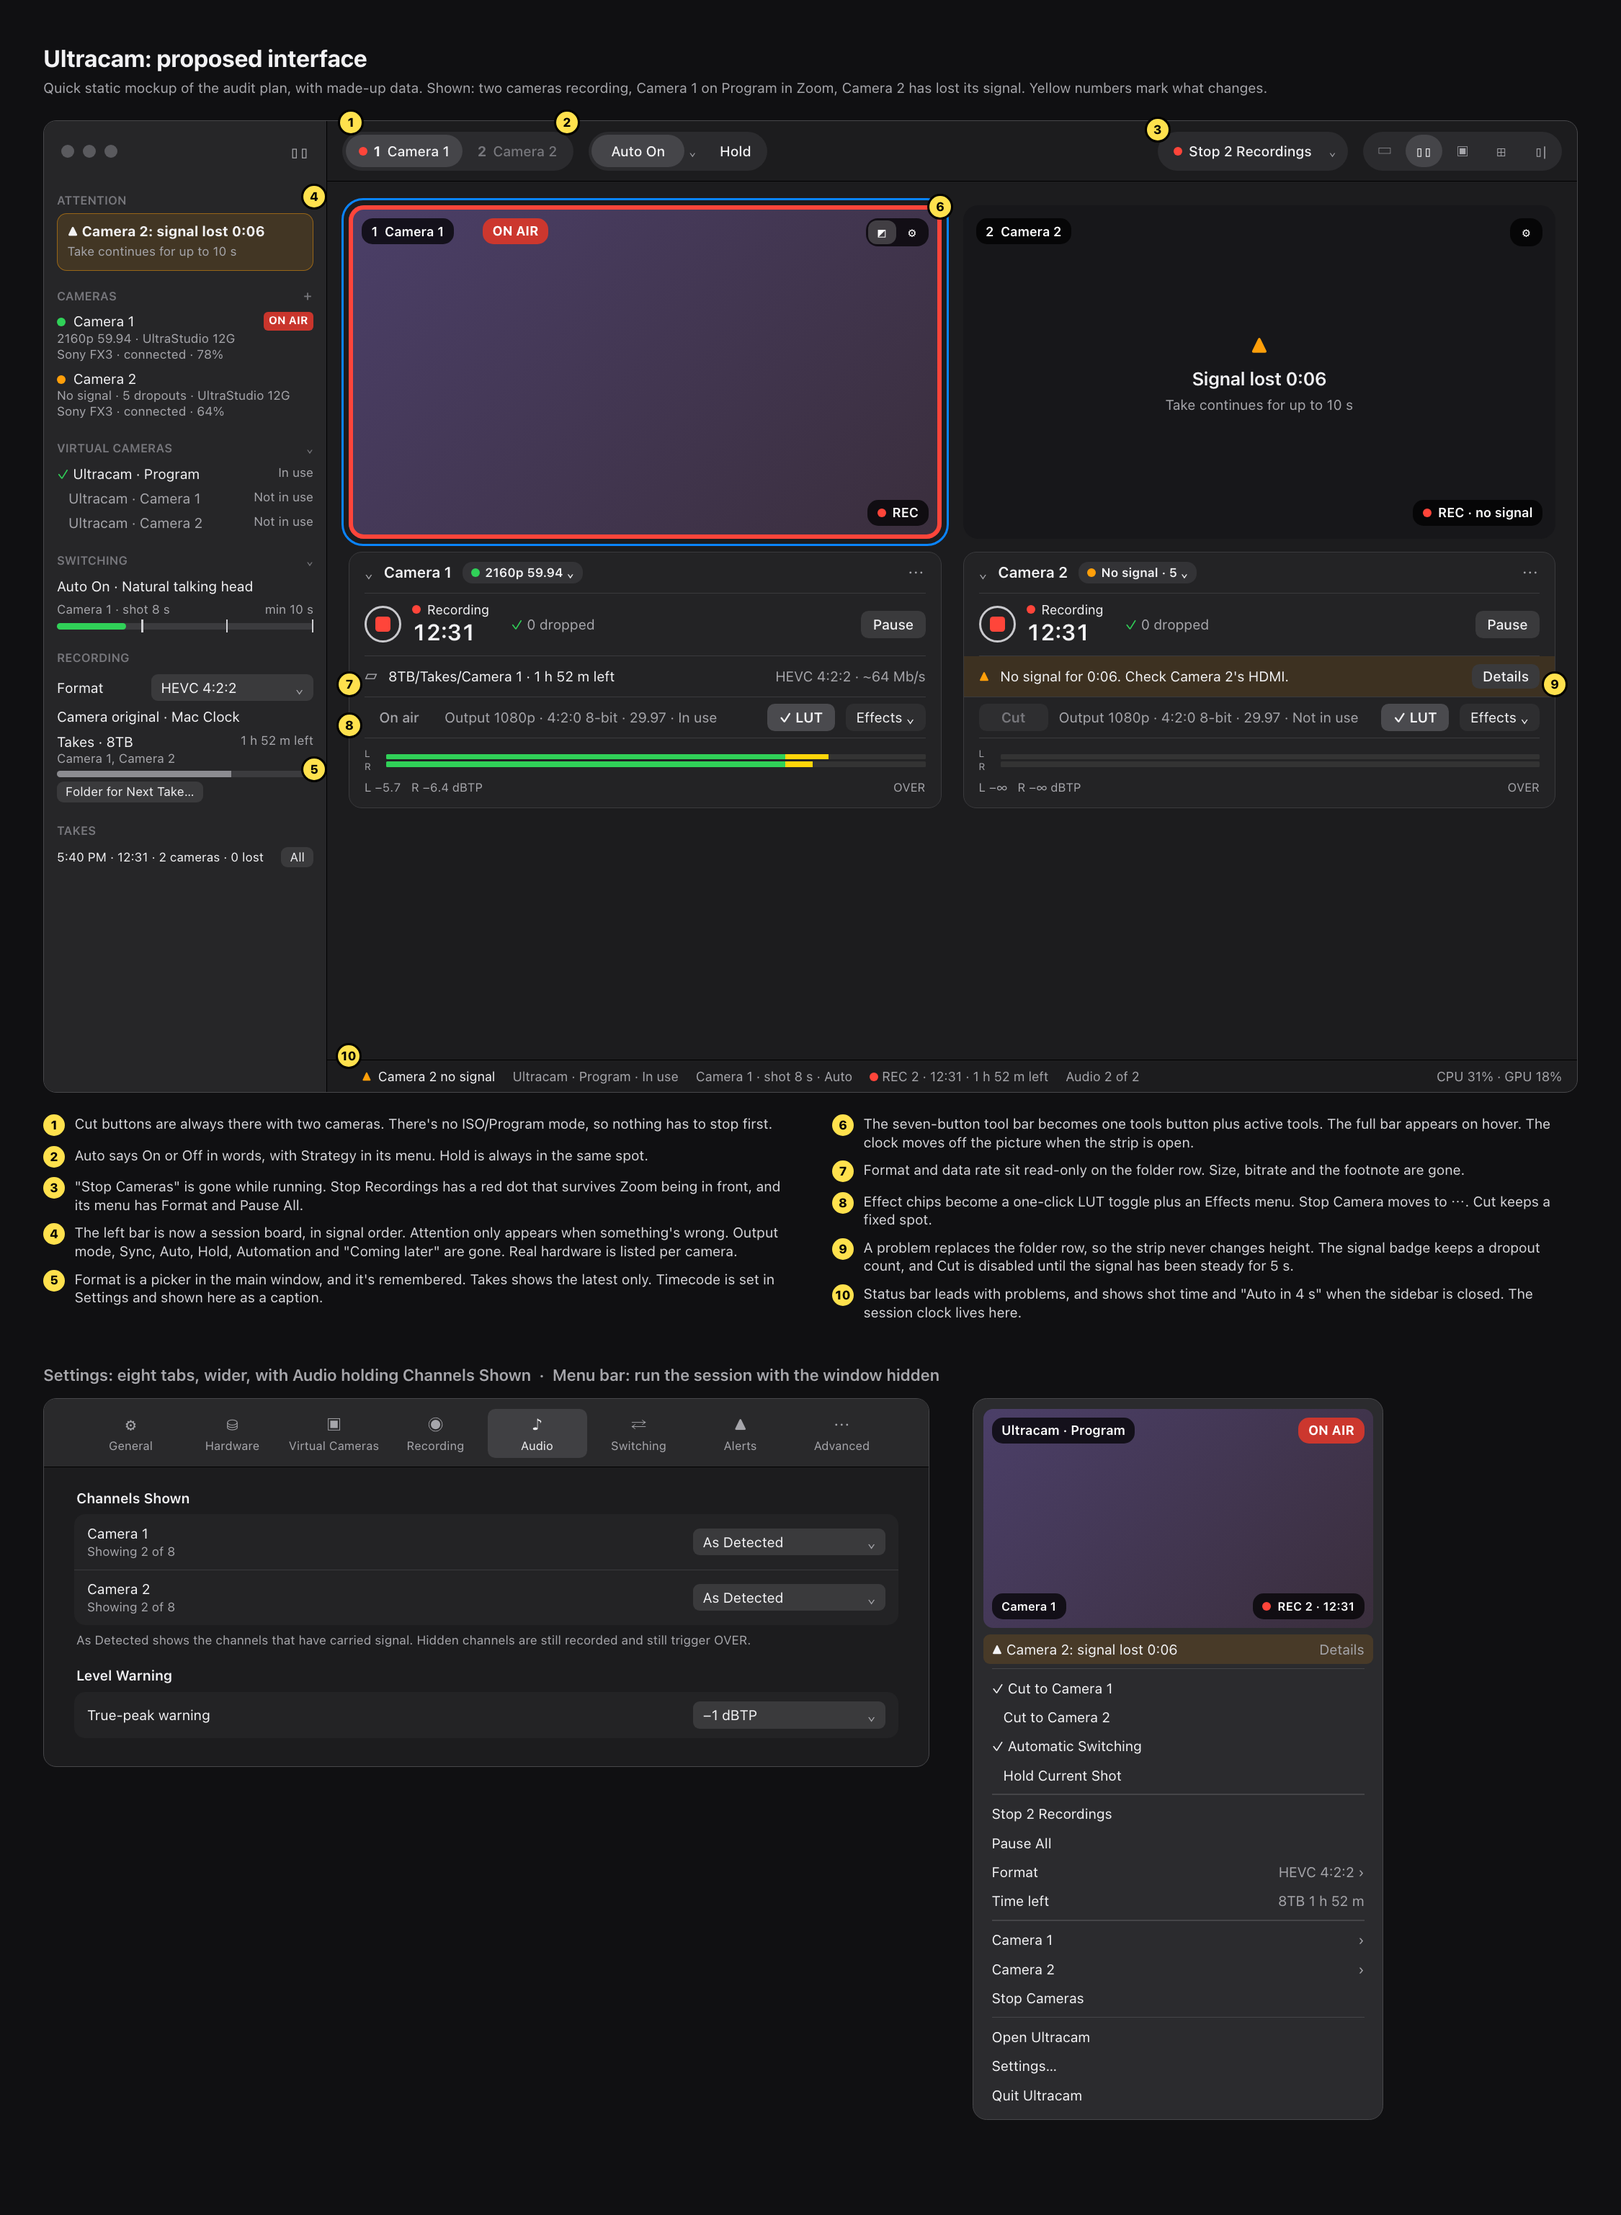
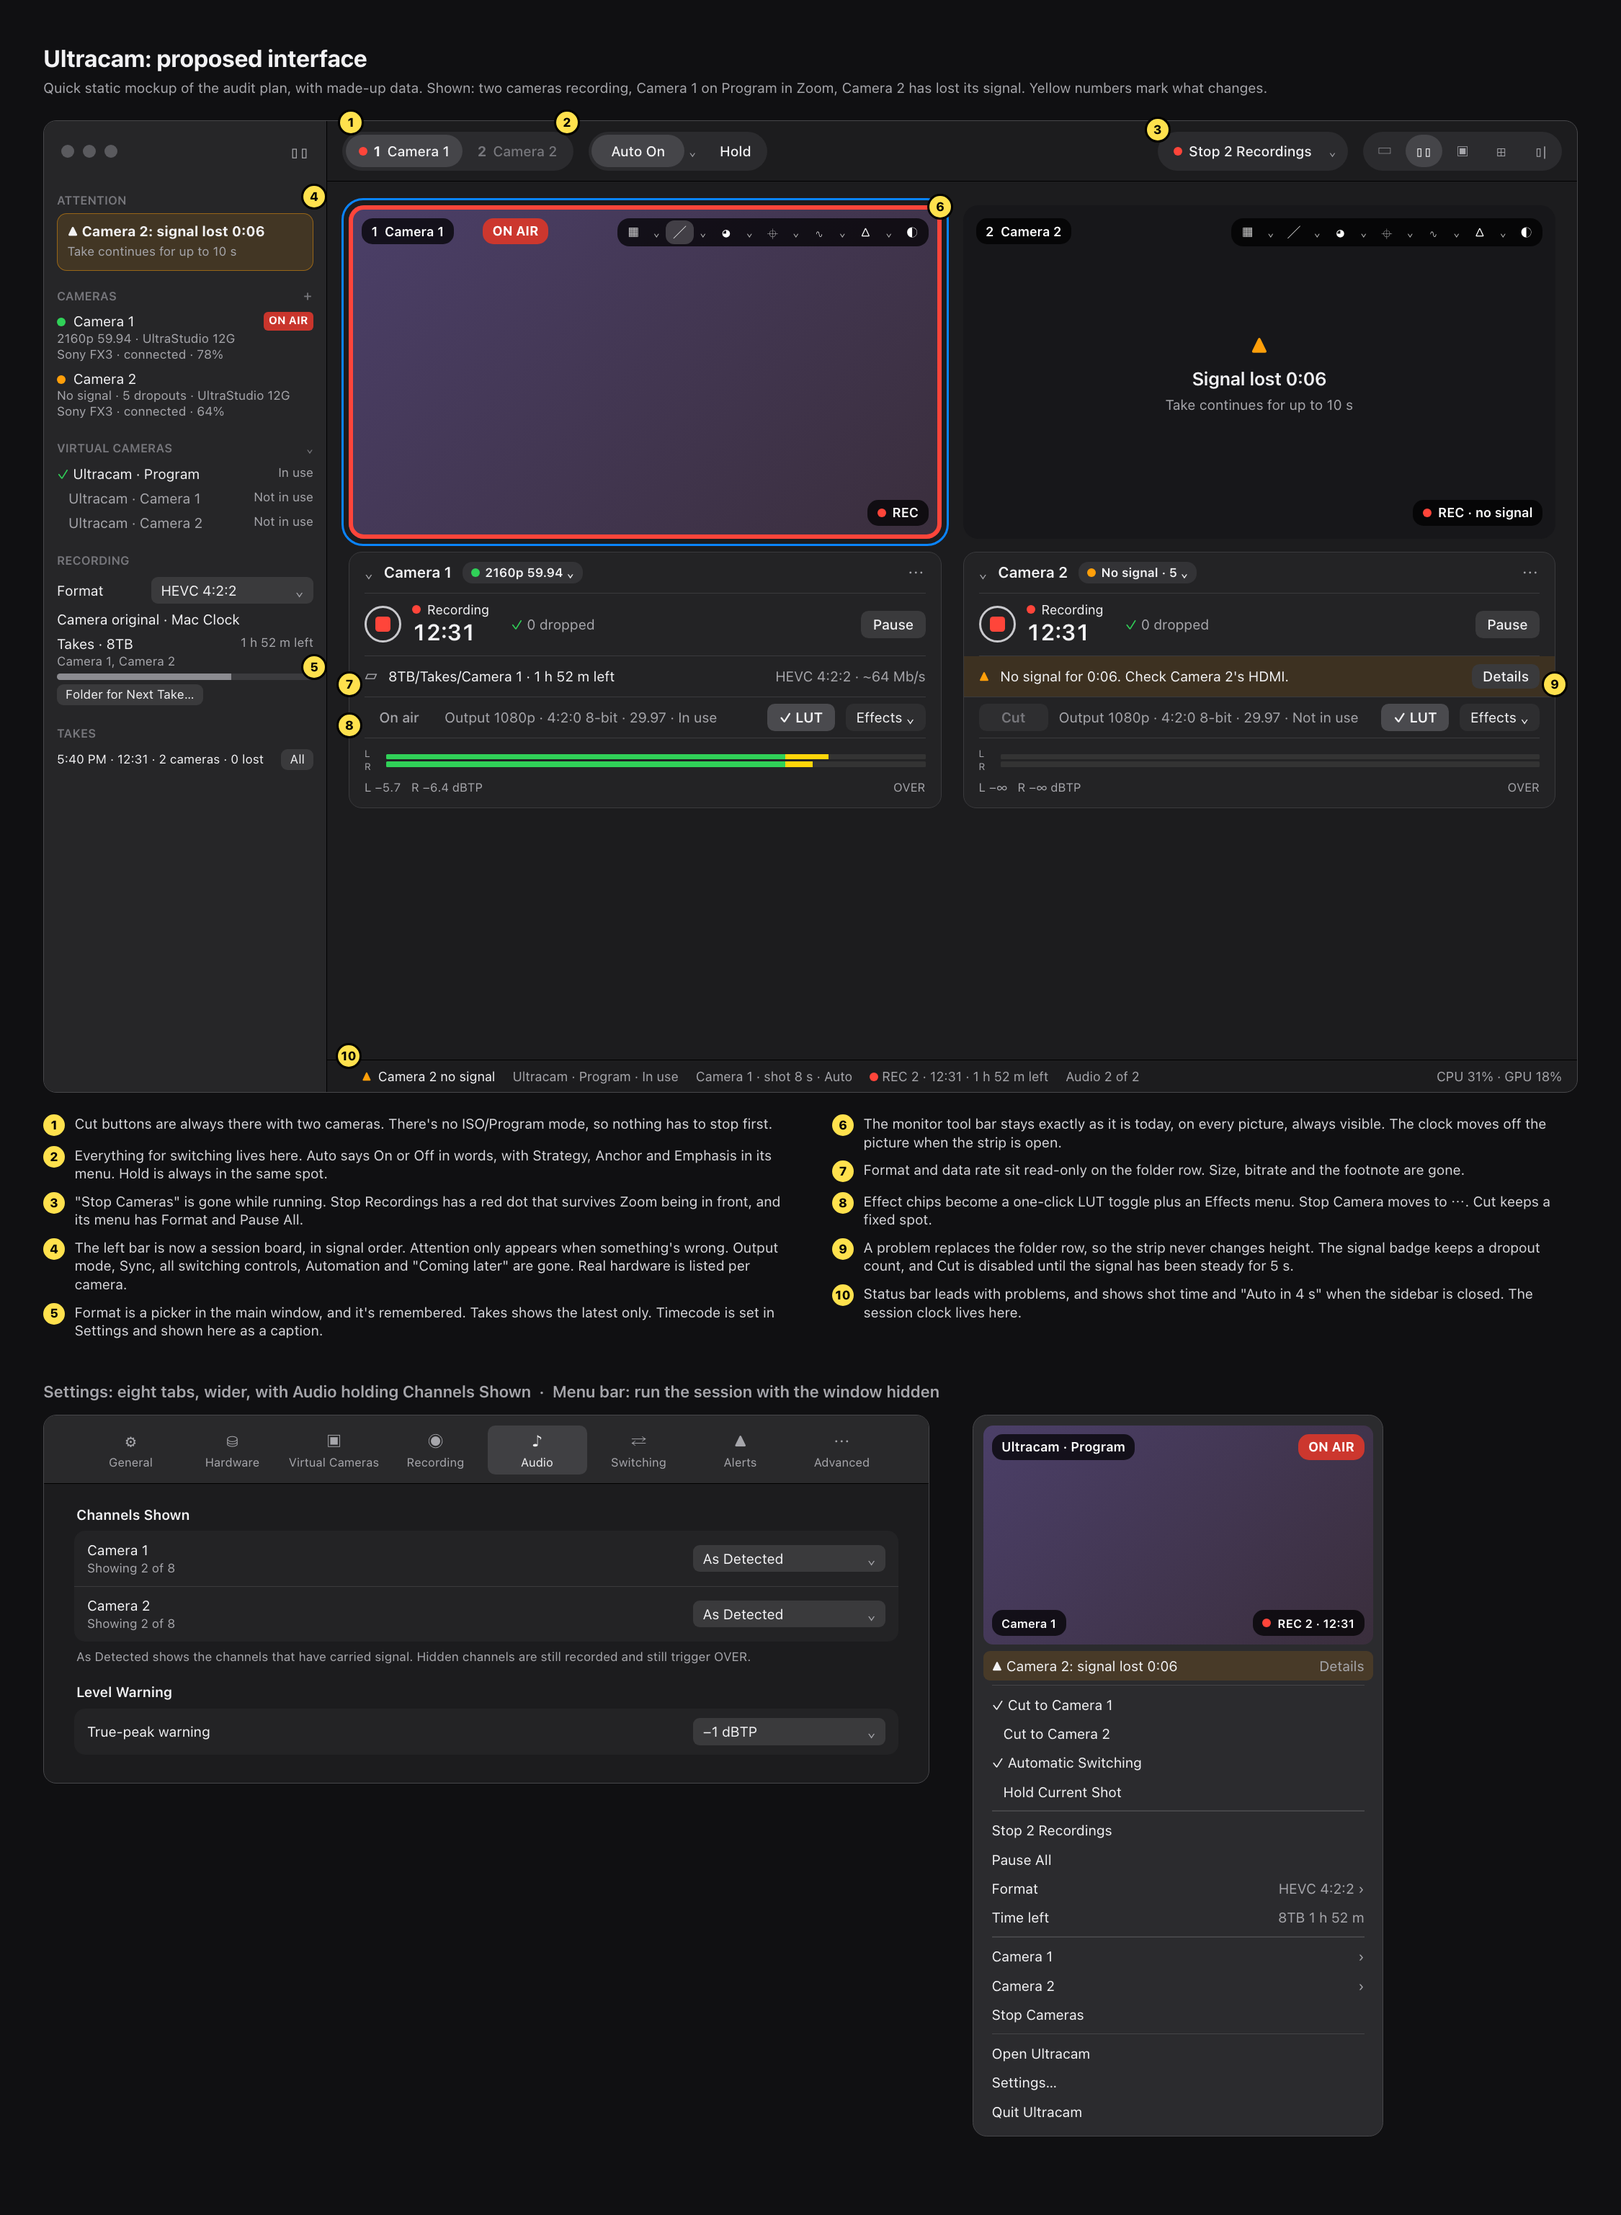
Keep the monitor tool bar on the picture and take switching out of the sidebar

diff --git a/docs/mockups/r5/index.html b/docs/mockups/r5/index.html
@@ -65,6 +65,7 @@ h2 { font-size:15px; margin:38px 0 12px; color:var(--dim); font-weight:600; }
 .tools { position:absolute; right:12px; top:12px; display:flex; gap:2px; background:rgba(0,0,0,.72); border-radius:11px; padding:2px; }
 .tools span { width:26px; height:22px; display:flex; align-items:center; justify-content:center; border-radius:8px; font-size:12px; color:#fff; }
 .tools .act { background:rgba(255,255,255,.2); }
+.tools .tc { width:13px; font-size:10px; color:#bbb; }
 .hold { position:absolute; inset:0; display:flex; flex-direction:column; align-items:center; justify-content:center; gap:5px; }
 .hold .big { font-size:17px; font-weight:600; }
 .strip { background:var(--panel); border:1px solid var(--line); border-radius:12px; margin-top:12px; padding:0 14px; }
@@ -171,12 +172,7 @@ h2 { font-size:15px; margin:38px 0 12px; color:var(--dim); font-weight:600; }
       <div class="row" style="display:flex;justify-content:space-between"><span style="color:var(--dim)">&nbsp;&nbsp; Ultracam · Camera 2</span><span class="d">Not in use</span></div>
     </div>
     <div class="sec">
-      <h3>SWITCHING <span>⌄</span></h3>
-      <div class="row">Auto On · Natural talking head</div>
-      <div class="row"><div class="d" style="display:flex;justify-content:space-between"><span>Camera 1 · shot 8 s</span><span>min 10 s</span></div><div class="shot"><b></b><i style="left:33%"></i><i style="left:66%"></i><i style="right:0"></i></div></div>
-    </div>
-    <div class="sec">
-      <span class="n" style="left:240px;top:590px">5</span>
+      <span class="n" style="left:240px;top:495px">5</span>
       <h3>RECORDING</h3>
       <div class="lbl row"><span>Format</span><span class="sel" style="width:150px"><span>HEVC 4:2:2</span><span style="color:var(--dim)">⌄</span></span></div>
       <div class="row d">Camera original · Mac Clock</div>
@@ -194,7 +190,7 @@ h2 { font-size:15px; margin:38px 0 12px; color:var(--dim); font-weight:600; }
       <div class="pic onair sel1">
         <span class="pill" style="left:12px;top:12px">1 &nbsp;Camera 1</span>
         <span class="onairp">ON AIR</span>
-        <div class="tools"><span class="act">◩</span><span>⚙</span></div>
+        <div class="tools"><span>▦</span><span class="tc">⌄</span><span class="act">╱</span><span class="tc">⌄</span><span>◕</span><span class="tc">⌄</span><span>⌖</span><span class="tc">⌄</span><span>∿</span><span class="tc">⌄</span><span>△</span><span class="tc">⌄</span><span>◐</span></div>
         <span class="pill" style="right:12px;bottom:12px"><span class="dot"></span>REC</span>
       </div>
       <div class="strip" style="position:relative">
@@ -211,7 +207,7 @@ h2 { font-size:15px; margin:38px 0 12px; color:var(--dim); font-weight:600; }
     <div style="position:relative">
       <div class="pic two">
         <span class="pill" style="left:12px;top:12px">2 &nbsp;Camera 2</span>
-        <div class="tools"><span>⚙</span></div>
+        <div class="tools"><span>▦</span><span class="tc">⌄</span><span>╱</span><span class="tc">⌄</span><span>◕</span><span class="tc">⌄</span><span>⌖</span><span class="tc">⌄</span><span>∿</span><span class="tc">⌄</span><span>△</span><span class="tc">⌄</span><span>◐</span></div>
         <div class="hold"><div style="font-size:22px;color:var(--orange)">▲</div><div class="big">Signal lost 0:06</div><div style="color:var(--dim)">Take continues for up to 10 s</div></div>
         <span class="pill" style="right:12px;bottom:12px"><span class="dot"></span>REC · no signal</span>
       </div>
@@ -239,11 +235,11 @@ h2 { font-size:15px; margin:38px 0 12px; color:var(--dim); font-weight:600; }
 
 <div class="legend">
   <div><span class="k">1</span>Cut buttons are always there with two cameras. There's no ISO/Program mode, so nothing has to stop first.</div>
-  <div><span class="k">2</span>Auto says On or Off in words, with Strategy in its menu. Hold is always in the same spot.</div>
+  <div><span class="k">2</span>Everything for switching lives here. Auto says On or Off in words, with Strategy, Anchor and Emphasis in its menu. Hold is always in the same spot.</div>
   <div><span class="k">3</span>"Stop Cameras" is gone while running. Stop Recordings has a red dot that survives Zoom being in front, and its menu has Format and Pause All.</div>
-  <div><span class="k">4</span>The left bar is now a session board, in signal order. Attention only appears when something's wrong. Output mode, Sync, Auto, Hold, Automation and "Coming later" are gone. Real hardware is listed per camera.</div>
+  <div><span class="k">4</span>The left bar is now a session board, in signal order. Attention only appears when something's wrong. Output mode, Sync, all switching controls, Automation and "Coming later" are gone. Real hardware is listed per camera.</div>
   <div><span class="k">5</span>Format is a picker in the main window, and it's remembered. Takes shows the latest only. Timecode is set in Settings and shown here as a caption.</div>
-  <div><span class="k">6</span>The seven-button tool bar becomes one tools button plus active tools. The full bar appears on hover. The clock moves off the picture when the strip is open.</div>
+  <div><span class="k">6</span>The monitor tool bar stays exactly as it is today, on every picture, always visible. The clock moves off the picture when the strip is open.</div>
   <div><span class="k">7</span>Format and data rate sit read-only on the folder row. Size, bitrate and the footnote are gone.</div>
   <div><span class="k">8</span>Effect chips become a one-click LUT toggle plus an Effects menu. Stop Camera moves to ⋯. Cut keeps a fixed spot.</div>
   <div><span class="k">9</span>A problem replaces the folder row, so the strip never changes height. The signal badge keeps a dropout count, and Cut is disabled until the signal has been steady for 5 s.</div>

diff --git a/docs/ui-audit/README.md b/docs/ui-audit/README.md
@@ -1,6 +1,6 @@
 # Ultracam UI and UX audit: decisions and plan
 
-Date: 2026-10-30. Revision 3: revision 2 followed an independent validation pass, and this one records the owner's choice of tabs for Settings. Code reviewed at `2c4929c`. This is a review only: no source changed.
+Date: 2026-10-30. Revision 4: revision 2 followed an independent validation pass. Revisions 3 and 4 record the owner's review: tabs for Settings, the monitor tool bar stays on the picture, and Switching leaves the sidebar. Code reviewed at `2c4929c`. This is a review only: no source changed.
 
 This file is the decision record. Where anything below it disagrees, this file wins.
 
@@ -30,7 +30,7 @@ This file is the decision record. Where anything below it disagrees, this file w
 | Every effect behind a menu | **LUT stays one click** | LUT off changes pixels, never Zoom's format. It is the panic control |
 | Time-sensitive notifications reach you | **Not on their own** | They need an entitlement, and sharing a screen may silence them. A floating panel is added, with limits (section 5) |
 | Left pane as drawn | **Trimmed** | Too tall: about 1046 pt in the heavy case, with Format below the fold on a 13-inch display |
-| "Close both panes and lose nothing" | **Reworded, and made true** | It was false: the shot timer and one-click fixes were lost |
+| "Close both panes and lose nothing" | **Reworded, and made true** | It was false: one-click fixes were lost, and the shot timer now lives in the status bar |
 | Nine Settings sections, "Devices" | **Eight, "Hardware"** | Monitoring's one control is per camera, so it belongs in the Scopes popover |
 | Loudness pair setting | **Dropped** | Nobody asked, and it would do half a job, because Auto still reads channels 1-2 |
 | Rig presets | **Still not now, plus a Setup block** | "Configurations" most likely means how each vendor's gear is set up, which the first pass missed |
@@ -236,9 +236,6 @@ CAMERAS                                              +
 VIRTUAL CAMERAS                            collapsible
   ✓ Ultracam · Program                          In use
     Ultracam · Camera 1                     Not in use
-SWITCHING                                  collapsible
-  Auto On · Natural talking head
-  Camera 1 · shot 8 s  ▬▬▬▬▬|▬▬▬|▬▬
 RECORDING
   Format [HEVC 4:2:2 ▾]
   Camera original · Mac Clock
@@ -248,16 +245,17 @@ TAKES
   5:40 PM · 12:31 · 2 cameras · 0 lost        [Show All]
 ```
 
-- **Heavy case:** about 797 pt, down from 1046. Fits 1470 × 956 and a 27-inch display. At 1440 × 900 collapse Switching. Attention, Cameras and Recording never collapse, and nothing collapses by itself.
+- **Heavy case:** about 663 pt, down from 1046 (estimated). It fits every display checked, including 1440 × 900. Only Virtual Cameras collapses, and nothing collapses by itself.
 - **Takes** shows the latest only. `Show All` reveals them in Finder.
 - **Virtual Cameras** is one line each. The microphone reminder appears only until something is in use.
-- **Removed:** Output control, Sync cameras, Auto, Strategy, Hold, the "2 recording" line, Automation, both "Coming later" rows. Interrupted Takes becomes an Attention row. An empty Attention means healthy.
+- **No Switching section.** Everything about switching is in the toolbar, and the shot time is in the status bar. The owner rejected a sidebar section, and it only repeated those two.
+- **Removed:** Output control, Sync cameras, Auto, Strategy, Hold, the shot timer, the "2 recording" line, Automation, both "Coming later" rows. Interrupted Takes becomes an Attention row. An empty Attention means healthy.
 
 ### Centre: pictures and strips
 
 Job: see it, hear it, roll it. Each fact has one owner (06 section 2, with the corrections in validation C).
 
-- **Picture at rest:** name, tally, REC pill, one tools button and any active tools. The full bar appears on hover **in every state**, not only live, or the `b621bc7` bug returns. The REC pill never truncates.
+- **Picture at rest:** name, tally, REC pill, and **the full monitor tool bar, unchanged and always visible, in every state.** Monitor tools are used live, so they stay one click away. The first plan hid them behind hover, and the owner rejected that. The REC pill never truncates.
 - **Program View:** loses the cut bar and Recent Cuts. Tiles get full-width Cut buttons.
 - **Strip removed:** On Air badge, Stop Camera button (moves to ⋯), size and bitrate, Own Folder badge, footnote, Camera Control row, effect chips, Processing switch.
 - **Strip rows, fixed:** header · record row · folder, time left and read-only format (or the problem) · output row · meters. Nothing appears or vanishes, and pressing Record doesn't resize the picture.
@@ -375,11 +373,11 @@ If a camera's source later can't use the choice, it takes the nearest format, be
 | Channels Shown home | 05 inspector | **Settings › Audio.** Your sentence names the Settings window |
 | Effect chips | 02 inspector, 06 menu | **LUT toggle plus Effects menu.** LUT is the panic control; the rest change Zoom's format |
 | Stop Cameras | 02 remove, 06 keep | **Remove.** Also fixes a double-click on Start landing on Stop |
-| Tool bar at rest | 02 active tools, 06 one button | **Both** |
+| Tool bar at rest | 02 active tools, 06 one button | **Neither. Keep the full bar, as today.** Your call: no extra steps for monitor tools. Both reports overrode the deliberate fix in `b621bc7` |
 | ⋯ menu | 02 trim, 03 remove | **Trim.** Stop Camera moves into it, and Monitor LUT moves to the Picture popover |
 | Strip Cut | 02 keep, 03 remove | **Keep** in a fixed slot. Eyes are on the pictures |
 | Hardware on the strip | 04 source row, 02 sidebar | **Sidebar** |
-| Strategy home | 02, 03 sidebar. 06 toolbar | **Toolbar Auto menu.** One control; the sidebar reads it |
+| Strategy home | 02, 03 sidebar. 06 toolbar | **Toolbar Auto menu only.** You rejected switching in the sidebar |
 | Publish Program | 01 always, B at 2+ | **At 2+.** A device add is harmless, and one camera has nothing to switch |
 | Show Switching Controls | 01 keep, B drop | **Drop** |
 | Return to eligibility | A 3 s, C 5 s | **5 s** |
@@ -404,7 +402,7 @@ If a camera's source later can't use the choice, it takes the nearest format, be
 | D6, backup automation rules | Holds; placeholder rows go until it's built |
 | D7, selection and focus merged | **Revised.** A click or window activation no longer focuses a picture, and focus no longer selects, because it could silently move the target of ⌘R. The menu bar stops depending on selection |
 | D8, time left, recent takes, director timeline, Saved, no app names | Holds; the sidebar stops repeating recording state |
-| `b621bc7`, tool bar findable at rest | Holds through the always-present tools button |
+| `b621bc7`, tool bar always on the picture | Holds, unchanged |
 | Left sidebar as V1 session panel | **Revised** to the session board |
 | `UI_REDESIGN.md:105,226`, output locked while running | **Overridden** |
 
